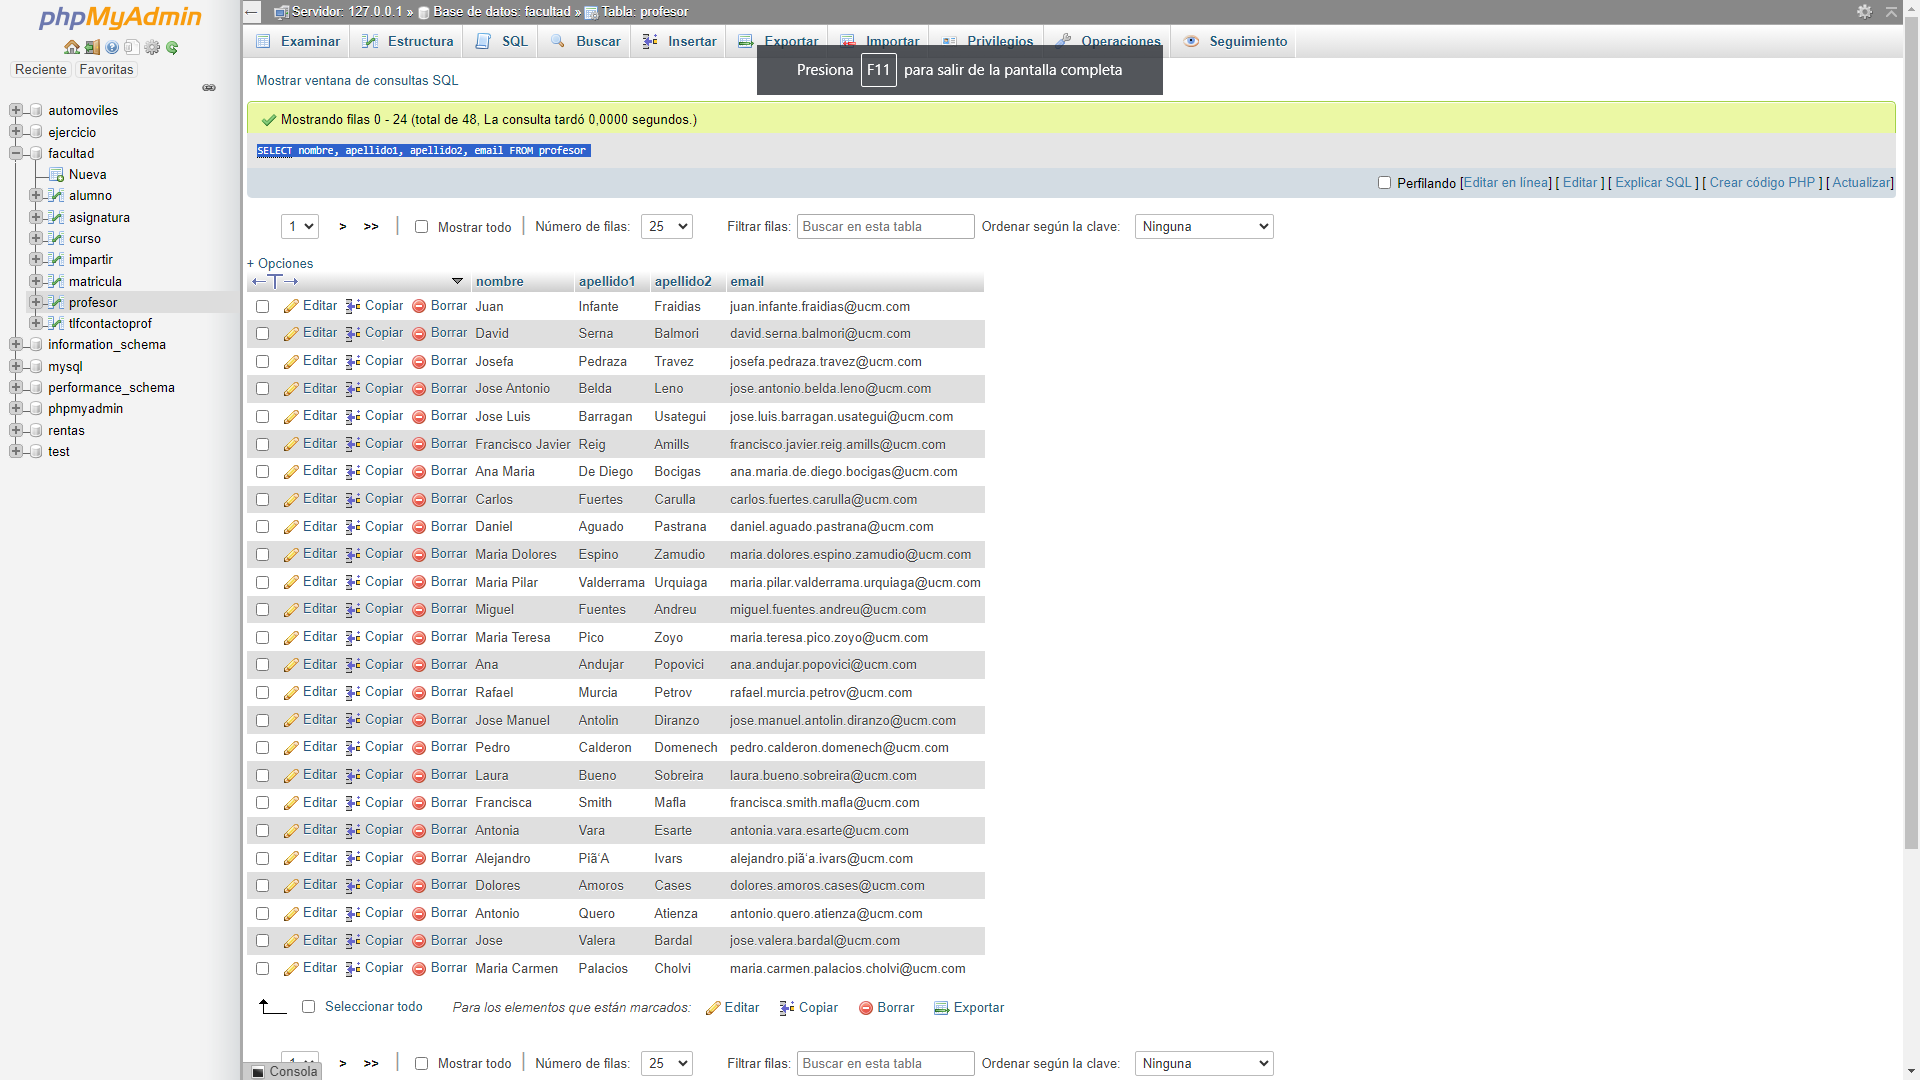
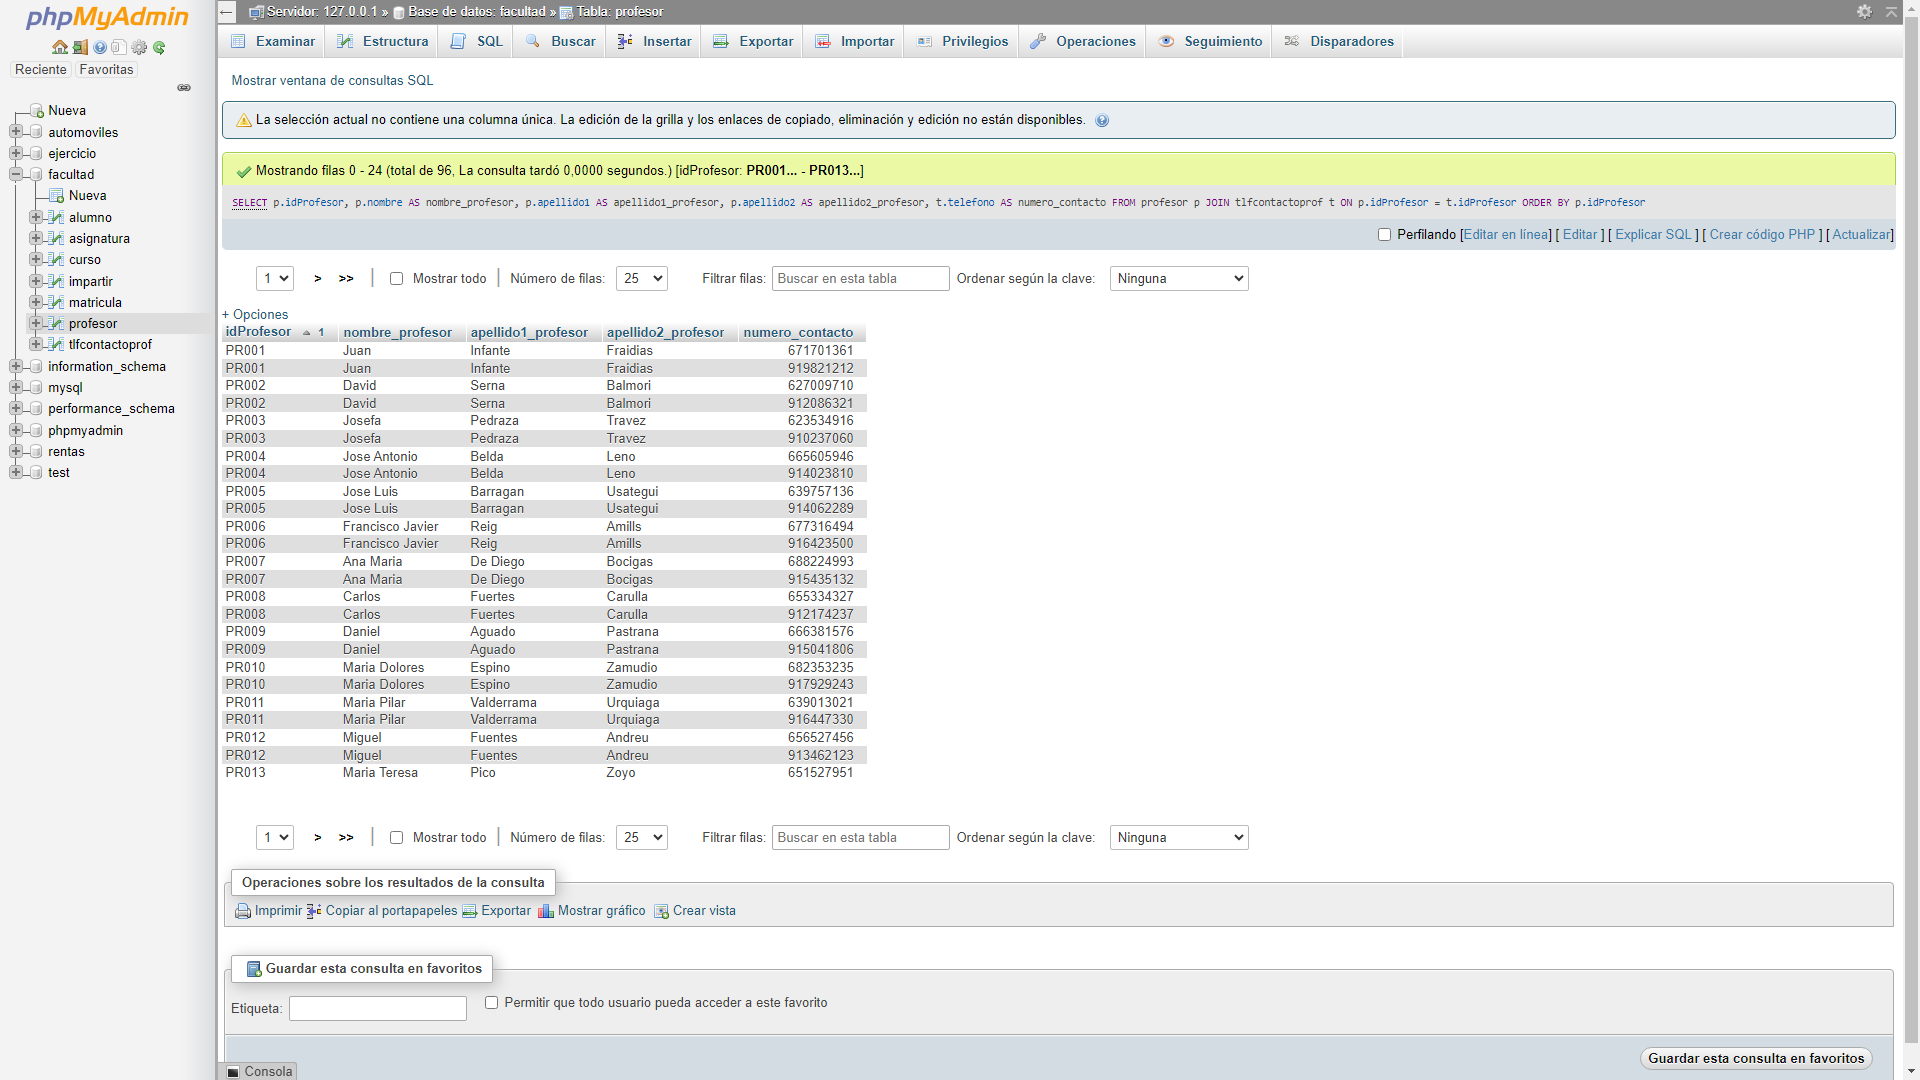
Avance 24/06/2024

diff --git a/Parcial 3/proyectofinal/proyectofinal/index.html b/Parcial 3/proyectofinal/proyectofinal/index.html
@@ -38,7 +38,8 @@
 
             <div class="row mt-2">
             <div class="col">
-                <h3 class="card">SELECT nombre, apellido1, apellido2, email FROM profesor</h3>
+                <h3 class="card">SELECT p.idProfesor, p.nombre AS nombre_profesor, p.apellido1 AS apellido1_profesor, p.apellido2 AS apellido2_profesor, t.telefono AS numero_contacto FROM profesor p JOIN tlfcontactoprof t ON p.idProfesor = t.idProfesor ORDER BY p.idProfesor
+                </h3>
                 <h4>Consulta #4. Obtener listado de profesores (nombre, apellido), y su numero contacto. </h4>
                 <img src="imagenes/Consulta 4.png" alt="" class="img-fluid">
             </div>
